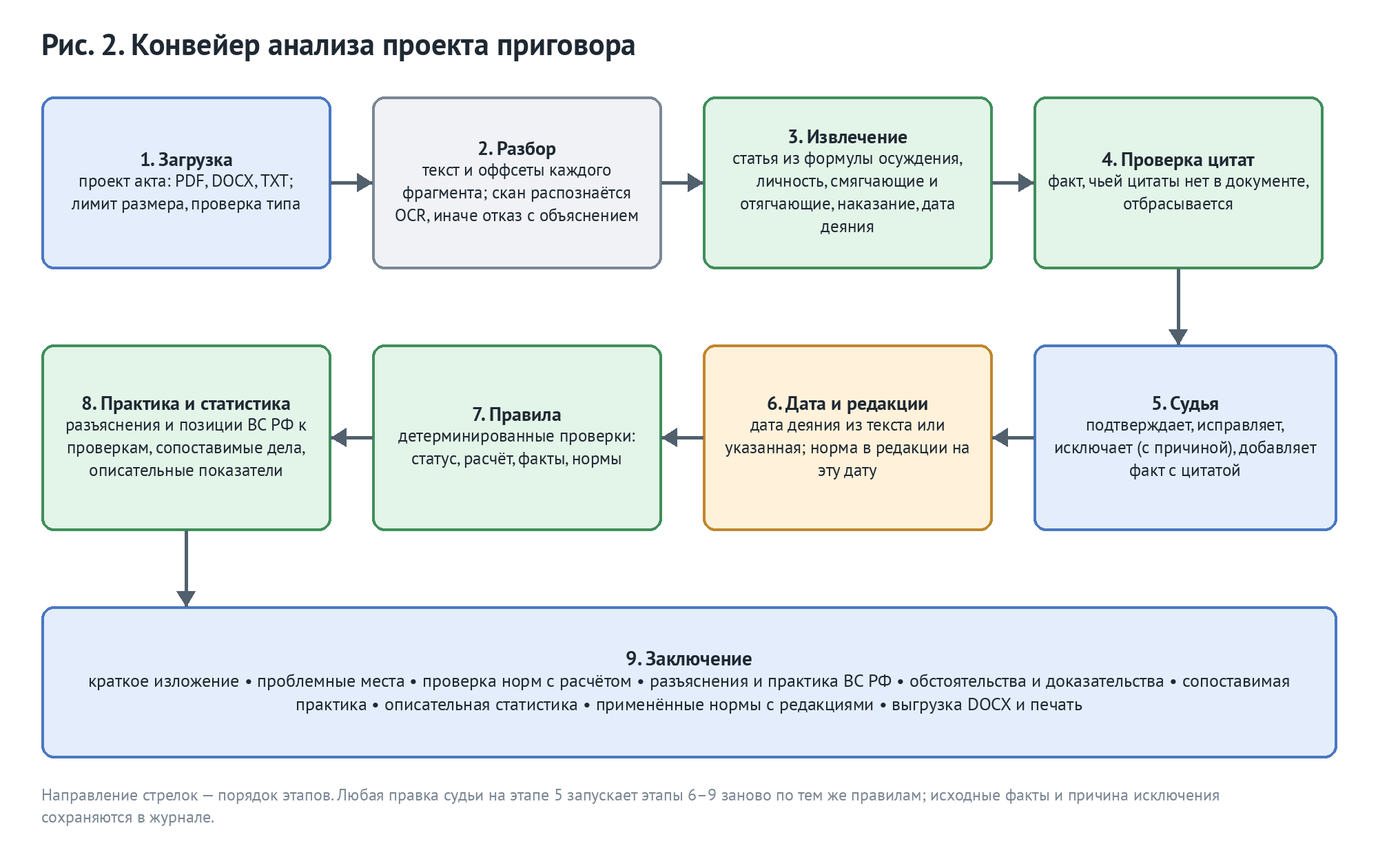
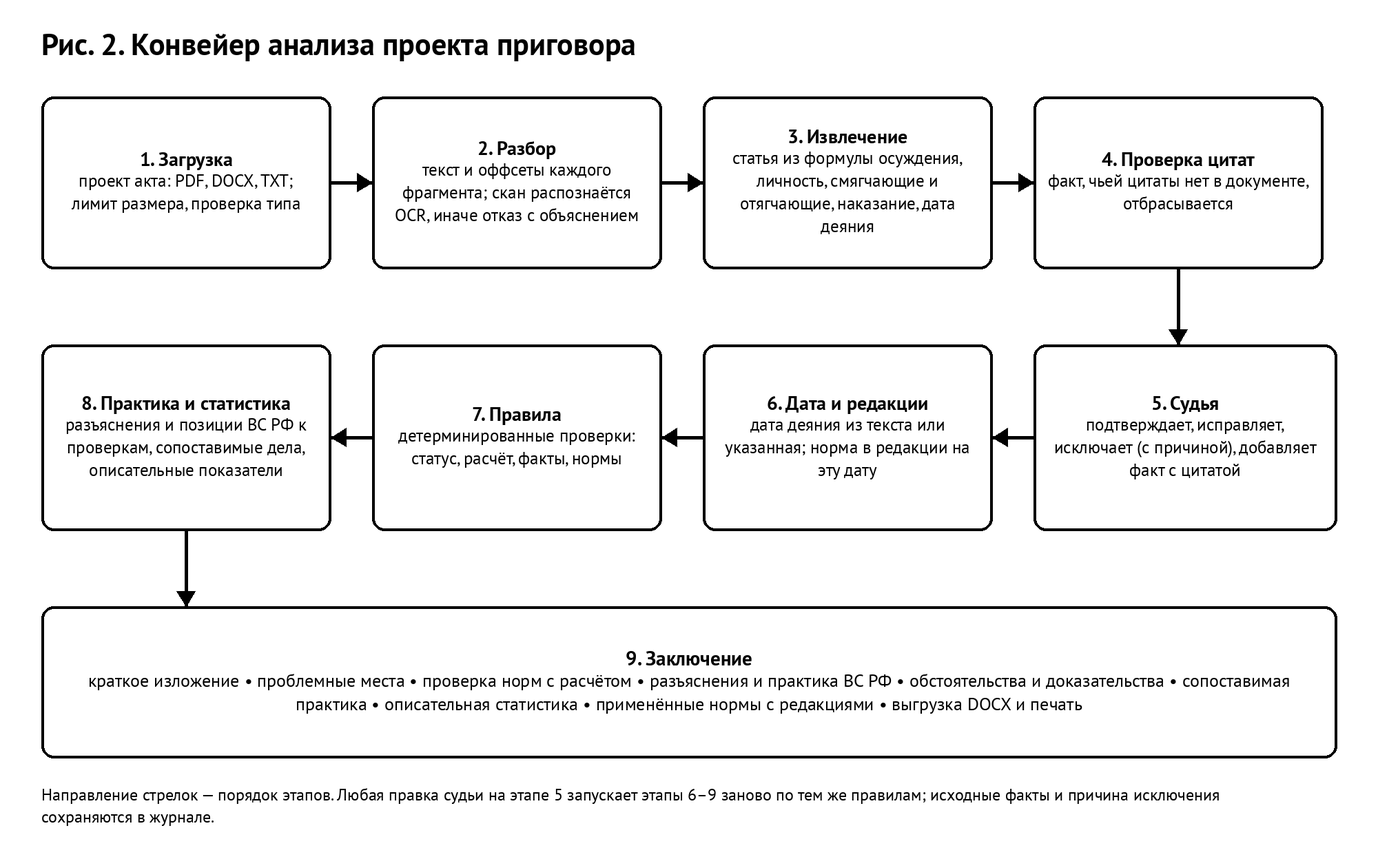
Концепция и архитектура: без предыстории и стрелок, чёрно-белые схемы, титул без даты

diff --git a/scripts/concept_figures.py b/scripts/concept_figures.py
@@ -24,21 +24,11 @@ FONT_CANDIDATES = (
 )
 BOLD_CANDIDATES = ("/usr/share/fonts/truetype/dejavu/DejaVuSans-Bold.ttf",)
 
-INK = "#1F2933"
-LINE = "#52606D"
-MUTED = "#7B8794"
-BLUE = "#E3EDFB"
-BLUE_EDGE = "#4A78C2"
-GREEN = "#E3F4E8"
-GREEN_EDGE = "#3F8F5A"
-AMBER = "#FFF1DA"
-AMBER_EDGE = "#C0862D"
-GREY = "#F0F2F5"
-GREY_EDGE = "#7B8794"
-VIOLET = "#EEE8FA"
-VIOLET_EDGE = "#7357B5"
-RED = "#FCE8E8"
-RED_EDGE = "#C24A4A"
+INK = "#000000"
+LINE = "#000000"
+MUTED = "#000000"
+BLUE = GREEN = AMBER = GREY = VIOLET = RED = "#FFFFFF"
+BLUE_EDGE = GREEN_EDGE = AMBER_EDGE = GREY_EDGE = VIOLET_EDGE = RED_EDGE = "#000000"
 WIDTH = 2000
 
 
@@ -297,7 +287,7 @@ def disclosure() -> Path:
     ]
     norms = [
         ("Нормы-основания", "ч. 3 ст. 66 УК РФ • ч. 1 ст. 228 УК РФ", AMBER, AMBER_EDGE),
-        ("Редакции на дату деяния", "02.02.2024 -> редакция v-current, интервал действия, статус «сверено»", AMBER, AMBER_EDGE),
+        ("Редакции на дату деяния", "на 02.02.2024 действует редакция v-current: интервал действия, статус «сверено»", AMBER, AMBER_EDGE),
         ("Официальный источник", "ИПС «Законодательство России»; дата выгрузки; SHA-256 текста", AMBER, AMBER_EDGE),
     ]
     left = [c.box(Box(80, 140 + i * 250, 820, 190), t, b, f, e, size=26) for i, (t, b, f, e) in enumerate(chain)]
@@ -328,7 +318,7 @@ def temporal() -> Path:
     split = 2003 + 350 / 365
     c.box(Box(int(x(1997)), 150, int(x(split) - x(1997)) - 6, 170), "v-1996", "01.01.1997–15.12.2003\nот 2 до 6 лет", AMBER, AMBER_EDGE, size=25)
     c.box(Box(int(x(split)) + 6, 150, int(x(2027) - x(split)) - 6, 170), "v-2003", "с 16.12.2003\nдо 5 лет", GREEN, GREEN_EDGE, size=25)
-    for year, label in ((2003.44, "деяние 10.06.2003\n-> редакция v-1996"), (2025.2, "деяние 15.03.2025\n-> редакция v-2003")):
+    for year, label in ((2003.44, "деяние 10.06.2003\nредакция v-1996"), (2025.2, "деяние 15.03.2025\nредакция v-2003")):
         px = x(year)
         c.draw.ellipse((px - 14, axis_y - 14, px + 14, axis_y + 14), fill=BLUE_EDGE)
         c.arrow([(px, axis_y - 20), (px, 328)])
@@ -386,10 +376,10 @@ def limits() -> Path:
     c = Canvas(980, "Рис. 8. Специальные правила пределов (пример: ч. 2 ст. 158 УК РФ, максимум 60 мес.)")
     base = c.box(Box(60, 150, 400, 170), "Санкция статьи", "максимум 60 мес. лишения свободы (R-001)", AMBER, AMBER_EDGE, size=26)
     items = [
-        ("R-002: покушение", "ч. 3 ст. 66: ≤ 3/4 -> 45 мес.\nприготовление: ≤ 1/2 -> 30 мес."),
-        ("R-003: особый порядок", "ч. 5 ст. 62 УК, ч. 7 ст. 316 УПК: ≤ 2/3 -> 40 мес."),
-        ("R-004: смягчающие «и», «к»", "ч. 1 ст. 62 при отсутствии отягчающих: ≤ 2/3 -> 40 мес."),
-        ("R-010: покушение в особом порядке", "сначала ст. 66, затем 2/3: 60 × 3/4 × 2/3 -> 30 мес. (п. 14 ППВС № 60, п. 34 ППВС № 58)"),
+        ("R-002: покушение", "ч. 3 ст. 66: предел 3/4 = 45 мес.\nприготовление: предел 1/2 = 30 мес."),
+        ("R-003: особый порядок", "ч. 5 ст. 62 УК, ч. 7 ст. 316 УПК: предел 2/3 = 40 мес."),
+        ("R-004: смягчающие «и», «к»", "ч. 1 ст. 62 при отсутствии отягчающих: предел 2/3 = 40 мес."),
+        ("R-010: покушение в особом порядке", "сначала ст. 66, затем 2/3: 60 × 3/4 × 2/3 = 30 мес. (п. 14 ППВС № 60, п. 34 ППВС № 58)"),
     ]
     for i, (title, body) in enumerate(items):
         b = c.box(Box(620, 130 + i * 190, 1320, 160), title, body, GREEN, GREEN_EDGE, size=26)

diff --git a/scripts/build_concept.py b/scripts/build_concept.py
@@ -18,7 +18,6 @@ import argparse
 import re
 import sys
 from dataclasses import dataclass, field
-from datetime import date
 from html import escape
 from pathlib import Path
 
@@ -56,8 +55,6 @@ SPECS = {
     ),
 }
 
-_MONTHS = ("января", "февраля", "марта", "апреля", "мая", "июня", "июля", "августа",
-           "сентября", "октября", "ноября", "декабря")
 
 
 @dataclass
@@ -159,10 +156,6 @@ def plain(text: str) -> str:
     return "".join(chunk for _, chunk in segments(text))
 
 
-def _ru_date(day: date) -> str:
-    return f"{day.day} {_MONTHS[day.month - 1]} {day.year} г."
-
-
 def _body_without_title(blocks: list[Block]) -> list[Block]:
     """Заголовок и подзаголовок из Markdown уходят на титульный лист."""
     body = list(blocks)
@@ -185,7 +178,7 @@ def _column_widths(rows: list[list[str]], total: float) -> list[float]:
     return [m + spare * w / sum(weights) for m, w in zip(minimum, weights, strict=True)]
 
 
-def build_docx(blocks: list[Block], target: Path, built: date, spec: Spec) -> Path:
+def build_docx(blocks: list[Block], target: Path, spec: Spec) -> Path:
     from docx import Document
     from docx.enum.table import WD_TABLE_ALIGNMENT
     from docx.enum.text import WD_ALIGN_PARAGRAPH
@@ -246,11 +239,6 @@ def build_docx(blocks: list[Block], target: Path, built: date, spec: Spec) -> Pa
         p = doc.add_paragraph()
         p.alignment = WD_ALIGN_PARAGRAPH.CENTER
         p.add_run(line).font.size = Pt(13)
-    for _ in range(8):
-        doc.add_paragraph()
-    p = doc.add_paragraph()
-    p.alignment = WD_ALIGN_PARAGRAPH.CENTER
-    p.add_run(f"Редакция от {_ru_date(built)}").font.size = Pt(12)
 
     body = _body_without_title(blocks)
     heading = doc.add_paragraph("Содержание", style="Heading 1")
@@ -356,7 +344,7 @@ def build_docx(blocks: list[Block], target: Path, built: date, spec: Spec) -> Pa
     return target
 
 
-def build_pdf(blocks: list[Block], target: Path, built: date, spec: Spec) -> Path:
+def build_pdf(blocks: list[Block], target: Path, spec: Spec) -> Path:
     from reportlab.lib import colors
     from reportlab.lib.enums import TA_CENTER, TA_JUSTIFY
     from reportlab.lib.pagesizes import A4
@@ -414,8 +402,6 @@ def build_pdf(blocks: list[Block], target: Path, built: date, spec: Spec) -> Pat
     story.append(Spacer(1, 2.5 * cm))
     for line in spec.cover.split("\n"):
         story.append(Paragraph(escape(line), ParagraphStyle("c", parent=center, fontSize=13, leading=17)))
-    story.append(Spacer(1, 7 * cm))
-    story.append(Paragraph(f"Редакция от {_ru_date(built)}", center))
     story.append(PageBreak())
 
     body = _body_without_title(blocks)
@@ -490,9 +476,7 @@ def main(argv: list[str] | None = None) -> int:
     parser = argparse.ArgumentParser(description=__doc__)
     parser.add_argument("--out", required=True, help="каталог для DOCX и PDF")
     parser.add_argument("--doc", choices=sorted(SPECS), default="concept", help="что собирать (по умолчанию concept)")
-    parser.add_argument("--date", default=None, help="дата редакции ГГГГ-ММ-ДД (по умолчанию сегодня)")
     args = parser.parse_args(argv)
-    built = date.fromisoformat(args.date) if args.date else date.today()
     spec = SPECS[args.doc]
     blocks = parse(spec.source.read_text(encoding="utf-8"), spec.source.parent)
     missing = [b.path for b in blocks if b.kind == "img" and b.path is not None and not b.path.exists()]
@@ -501,8 +485,8 @@ def main(argv: list[str] | None = None) -> int:
         return 2
     out = Path(args.out)
     for path in (
-        build_docx(blocks, out / f"{spec.basename}.docx", built, spec),
-        build_pdf(blocks, out / f"{spec.basename}.pdf", built, spec),
+        build_docx(blocks, out / f"{spec.basename}.docx", spec),
+        build_pdf(blocks, out / f"{spec.basename}.pdf", spec),
     ):
         print(path)
     return 0

diff --git a/docs/CONCEPT.md b/docs/CONCEPT.md
@@ -2,19 +2,15 @@
 
 Система проверки проекта приговора в части назначения наказания: соответствие закону в редакции на дату деяния, разъяснениям Пленума и практике Верховного Суда, с раскрытием каждого вывода до цитаты и нормы.
 
-Разделы 3–6 описывают то, что п. 2.2 Положения о конкурсе требует от концепции: архитектуру решения, используемые данные, алгоритмы и правовую методологию. Раздел 8 сопоставляет прототип с требованиями п. 2.5 Положения.
-
-Прототип: Python, 113 модулей и около 15,3 тыс. строк кода, 1032 автоматических теста; нормативный корпус из 115 норм и разъяснений в 221 редакции; 8 подключённых проверок и 6 черновых; веб-интерфейс с «Личным кабинетом» и «Рабочей областью анализа»; заключение выгружается в DOCX и печатается.
+Прототип: Python, 113 модулей и около 15,3 тыс. строк кода, 1033 автоматических теста; нормативный корпус из 115 норм и разъяснений в 221 редакции; 8 подключённых проверок и 6 черновых; веб-интерфейс с «Личным кабинетом» и «Рабочей областью анализа»; заключение выгружается в DOCX и печатается.
 
 ## 1. Краткое содержание
-
-Ошибки при назначении наказания — устойчивая причина пересмотра приговоров. По Обзору практики Верховного Суда РФ от 18.12.2024, в первом полугодии 2024 года Судебная коллегия по уголовным делам Верховного Суда из-за неправильного применения уголовного закона при назначении наказания изменила приговоры в отношении 38 лиц со смягчением наказания без изменения квалификации (в 2023 году — 75 лиц). Многие из разобранных в Обзоре ошибок формальны: предел санкции, правила ст. 62, 66, 68 УК РФ, условия условного осуждения, редакция закона на дату деяния. Их можно найти вычислением, если известны обстоятельства дела и норма в нужной редакции.
 
 «Второе мнение» принимает проект приговора, извлекает из текста обстоятельства, значимые для наказания, проверяет назначенное наказание по нормам в редакции на дату деяния и составляет заключение для судьи. Решающих полномочий у системы нет (п. 2.5.3 Положения): она показывает, где проект может разойтись с законом и практикой и на каком основании, а решение принимает судья.
 
 Проект построен на пяти принципах.
 
-1. Каждый вывод раскрывается до источника: вывод -> проверка с расчётом -> обстоятельство -> дословная цитата из документа с позицией в тексте -> норма -> редакция на дату деяния -> официальный источник.
+1. Каждый вывод раскрывается до источника: от проверки с расчётом к обстоятельству, дословной цитате из документа с позицией в тексте, норме в редакции на дату деяния и официальному источнику.
 2. Норма применяется в редакции на дату деяния. Хранилище выдаёт норму только на заданную дату; если редакции на эту дату нет, проверка так и отвечает.
 3. Юридические выводы делают детерминированные проверки. У каждой есть норма-основание, сверенная юристом, и одинаковый вход даёт одинаковый результат. Языковая модель допускается только к извлечению обстоятельств, и каждая её находка сверяется с текстом документа.
 4. Если данных не хватает, проверка отвечает «недостаточно данных» и перечисляет, чего не хватает.
@@ -76,13 +72,13 @@
 
 ### 3.4. Интерфейс
 
-Веб-интерфейс на русском языке разделён на «Личный кабинет» (вход, профиль, роль, история дел пользователя) и «Рабочую область анализа» (документ -> обстоятельства с цитатами -> проверки с раскрытием до нормы и редакции -> разъяснения и практика -> статистика -> заключение), как требует п. 2.5.2.а Положения. Отдельные панели: поиск по источникам права и состояние нормативного корпуса (сколько норм, что ждёт сверки, целостность). Интерфейсом можно управлять с клавиатуры, разметка рассчитана на экранный диктор, вёрстка адаптивная.
+Веб-интерфейс на русском языке разделён на «Личный кабинет» (вход, профиль, роль, история дел пользователя) и «Рабочую область анализа» (документ, обстоятельства с цитатами, проверки с раскрытием до нормы и редакции, разъяснения и практика, статистика, заключение), как требует п. 2.5.2.а Положения. Отдельные панели: поиск по источникам права и состояние нормативного корпуса (сколько норм, что ждёт сверки, целостность). Интерфейсом можно управлять с клавиатуры, разметка рассчитана на экранный диктор, вёрстка адаптивная.
 
 ### 3.5. Развёртывание в закрытом контуре
 
 Поставка — контейнеры Docker: приложение (запускается не от root), PostgreSQL 16 с pgvector (подключение ролью без прав суперпользователя), по желанию — сервер vLLM с открытой языковой моделью на GPU. Образ собирается из зафиксированных версий зависимостей с проверкой хэшей. Файловое хранилище предназначено для демонстрации, PostgreSQL — для эксплуатации; переключение одной переменной окружения.
 
-Концепция ВС РФ по ИИ (приказ от 03.09.2026 № 59-П) запрещает публичные ИИ-сервисы и передачу данных в публичные облака. В системе нет облачных адаптеров: модель подключается только по OpenAI-совместимому протоколу к серверу в сети суда, и адрес проверяется при запуске (localhost, частные адреса, имя сервиса Docker, внутренние зоны или явно перечисленные администратором серверы суда). Облачный адрес останавливает запуск. Без модели система работает полностью.
+Облачных адаптеров в системе нет: Концепция ВС РФ по ИИ (приказ от 03.09.2026 № 59-П) запрещает публичные ИИ-сервисы и передачу данных в публичные облака. Модель подключается только по OpenAI-совместимому протоколу к серверу в сети суда, и адрес проверяется при запуске (localhost, частные адреса, имя сервиса Docker, внутренние зоны или явно перечисленные администратором серверы суда). Облачный адрес останавливает запуск. Без модели система работает полностью.
 
 ![Рис. 5. Развёртывание в закрытом контуре суда](concept/05-contour.png)
 
@@ -125,7 +121,7 @@
 | Демонстрационная синтетическая норма | 1 | 2 | помечена как синтетическая |
 | Итого | 115 | 221 | 32 редакции сверены, 187 черновиков, 2 синтетические |
 
-Статьи Особенной части выбраны по частоте осуждения: по обзору Судебного департамента при Верховном Суде РФ за 2024 год, на кражи приходится 25,4 % осуждённых, на преступления, связанные с наркотиками, — 13,4 %, на преступления против безопасности движения — 10,1 %, на мошенничество — 5 %.
+Статьи Особенной части выбраны по частоте осуждения по данным Судебного департамента при Верховном Суде РФ за 2024 год: кражи дают 25,4 % осуждённых, преступления, связанные с наркотиками, 13,4 %, преступления против безопасности движения 10,1 %, мошенничество 5 %.
 
 Каждая редакция хранит текст, интервал действия, источник с реквизитами, дату выгрузки, SHA-256 текста и статус сверки. Санкция хранится по видам наказания: лишение свободы, исправительные работы и ограничение свободы в месяцах, обязательные работы в часах, штраф в рублях. У записи санкции может быть свой интервал действия внутри редакции: штраф и обязательные работы менялись чаще, чем срок лишения свободы. Пределы, разобранные из текста автоматически, помечены как несверенные, и проверка говорит об этом в объяснении.
 
@@ -218,7 +214,7 @@
 | v1 | 1,000 | 1,000 | 30 с / 56 с |
 | v2 | 1,000 | 1,000 | 36 с / 62 с |
 
-Модель не нашла ни одного обстоятельства, упущенного правилами разбора. Проверка цитаты защищает от выдуманного текста, но не от неверного прочтения верной цитаты: модель истолковала «ранее не судимого» как сведение о судимости. Поэтому по умолчанию извлечение детерминированное, а факт модели участвует в проверках только после подтверждения судьёй. Промпт v3 добавляет часы и рубли; его замер вместе с моделью большего размера, принудительной JSON-схемой и реальными текстами запланирован на сервере с vLLM.
+Модель не нашла ни одного обстоятельства, упущенного правилами разбора. Проверка цитаты отсекает выдуманный текст, а неверное прочтение верной цитаты пропускает: модель истолковала «ранее не судимого» как сведение о судимости. Поэтому по умолчанию извлечение детерминированное, а факт модели участвует в проверках только после подтверждения судьёй. Промпт v3 добавляет часы и рубли; его замер вместе с моделью большего размера, принудительной JSON-схемой и реальными текстами запланирован на сервере с vLLM.
 
 ## 6. Правовая методология
 
@@ -323,7 +319,7 @@
 
 Золотой набор синтетический, и на нём разрабатывались правила разбора, поэтому 1,000 не оценивает обобщение. Обобщение проверяется на пяти реальных приговорах из черновых записей практики (ч. 2 ст. 264.1, ч. 2 и ч. 4 ст. 111, ч. 1 и ч. 2 ст. 159 УК РФ): статья осуждения, вид и размер наказания определяются верно во всех пяти, и по всем пяти проверка пределов санкции отвечает по существу. По ст. 264.1 и 111 она опирается на черновые нормы из ИПС, по ст. 159 сравнивает штраф и часы с пределами, ждущими сверки, и в обоих случаях говорит об этом в объяснении. Дата деяния в опубликованных текстах обезличена, поэтому проверки по ним идут на дату анализа с пометкой «дата предположена».
 
-Каждое изменение проходит автоматические проверки: линтер, статическую проверку типов (`mypy`), 1032 теста (модульные, интеграционные, против настоящего PostgreSQL), проверку опечатанности корпуса и прогон оценки качества. Одинаковый документ даёт одинаковое заключение.
+Каждое изменение проходит автоматические проверки: линтер, статическую проверку типов (`mypy`), 1033 теста (модульные, интеграционные, против настоящего PostgreSQL), проверку опечатанности корпуса и прогон оценки качества. Одинаковый документ даёт одинаковое заключение.
 
 ## 8. Соответствие требованиям Положения
 
@@ -362,6 +358,6 @@
 | декабрь 2026 | постановления Президиума в корпус; глава 12 раздела IV (ст. 80.1, 81, 82); совокупность (ст. 69, 70) после сверки; нижний предел по ст. 46, 49, 50, 53 | 14 проверок вместо 8 |
 | январь 2027 | 50+ реальных приговоров с проверкой записей | измерение обобщения извлечения на реальных текстах |
 | февраль 2027 | замер модели на Linux-сервере с vLLM, в том числе отечественной модели с открытыми весами | решение о роли модели по реальным текстам |
-| март 2027 | сценарий защиты: загрузка -> обстоятельства -> проверка до нормы -> правка с пересчётом -> практика -> заключение | демонстрация в браузере без консоли |
+| март 2027 | сценарий защиты: загрузка документа, обстоятельства, проверка до нормы, правка с пересчётом, практика, заключение | демонстрация в браузере без консоли |
 
 Порядок задан приоритетами проекта: юридическая корректность, проверяемость, воспроизводимость, надёжность, удобство, скорость, сложность машинного обучения. Поэтому сверка юристом идёт раньше расширения корпуса.

diff --git a/docs/ARCHITECTURE.md b/docs/ARCHITECTURE.md
@@ -2,8 +2,6 @@
 
 Модульный монолит на Python 3.11+: один процесс, слои разделены интерфейсами, модули обращаются друг к другу только через контракты. Для системы такого объёма деление на отдельные службы добавило бы точек отказа без выигрыша в надёжности.
 
-Требование п. 2.2 Положения о конкурсе («описание архитектуры решения») закрывает этот документ вместе с концепцией (`docs/CONCEPT.md`, раздел 3); схемы общие: `docs/concept/*.png`.
-
 ![Архитектура решения](concept/01-architecture.png)
 
 ## Конвейер анализа
